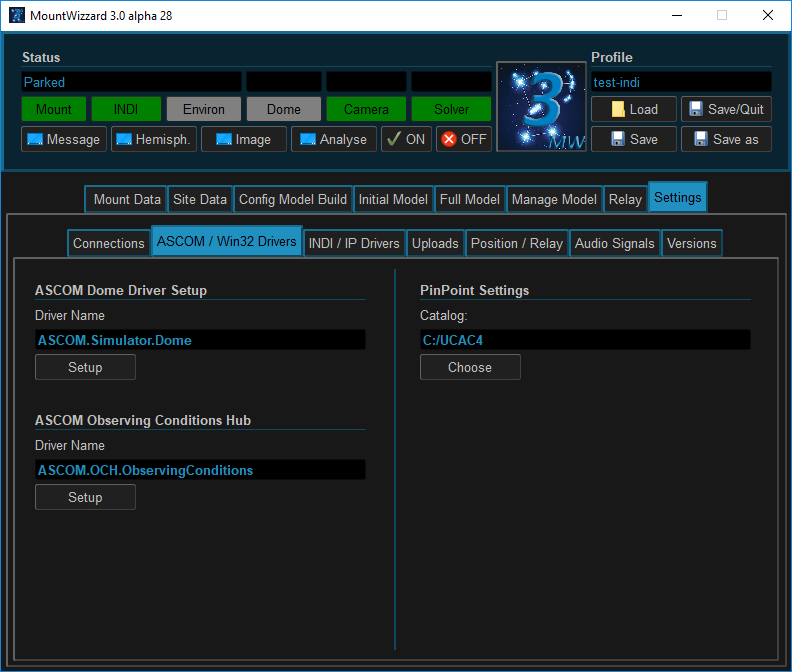
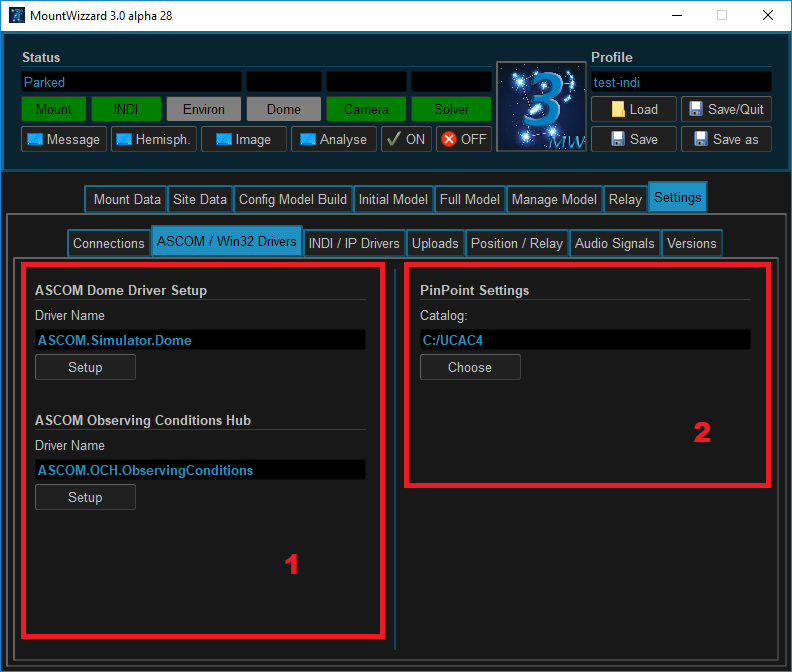
update documentation for ascom win32 and upload

diff --git a/docu/settings_ascom_win32.md b/docu/settings_ascom_win32.md
@@ -1,0 +1,44 @@
+## Settings for ASCOM / Mount Drivers environment drivers
+
+<img src="pics/settings_ascomwin32.png"/>
+
+### Area 1: PinPoint
+If yo have full (!) version of PinPoint installed, you could use this directly for plate solving.
+Only point you have to define is the location of the catalog. Please use the standard names of the
+directories that MountWizzard3 could determine the type for PinPoint. Supported catalogs are:
+- UCAC4
+- GSC
+- UCAC3
+- USNO
+
+### Area 2: Setup Ascom Devices
+Beside camera and telescope you could have several devices connected. MountWizzard supports some types:
+
+#### ASCOM Domes (Azimuth only)
+The support of Dome is limited to slew a connected Dome to the right azimuth before moving on doing the
+next image. It's not a fully supported Dome remote.
+
+#### ASCOM Observing Conditions Hub
+- Observing Conditions(ObsCond) at the mount: Stickstation or MBox
+- Observing Conditions on Open Weather
+- Observing conditions for SQR metering: Unihedron SQR Device
+
+
+The ObsCond is the important device, where MountWizzard takes the information for update the refraction
+parameters. Normally you would use a Stickstation or a MBox solution. But basically all devices, which
+deliver that data (temperature, humidity, pressure, dew point) could be used. If you don't own one of
+them, you still can use Open Weather.
+
+The Open Weather service gives you more information. You have to obtain an API key. Please check their
+website http://openweathermap.org/api for further informations.
+
+Last, but not least, you can have a sky quality meter from Unihedron attached. You have to use a USB
+type and you have to connect it via ASCOM. There is a driver written by animaal
+(SGPro Forum under http://forum.mainsequencesoftware.com/t/environment-device-values/5051/16)
+you find the driver on http://www.dizzy.eu/downloads.html. It does a great job!
+
+[Back to settings](settings.md)
+
+[Back to first steps](firststeps.md)
+
+[Back to Home](home.md)

diff --git a/docu/settings_uploads.md b/docu/settings_uploads.md
@@ -1,11 +1,8 @@
 ## Setting / config of UTC Data / MPC / TLE
 
-<img src="pics/tab_settings_utcdata.png"/>
+<img src="pics/settings_uploads.png"/>
 
-### Area 1
-Shows the status of the UTC timing parameters especially of the UTC-1 values and their expiration date.
-
-### Area 2: Webservice for space data
+### Area 1: Webservice for space data
 
 Most of the data will be downloaded from the minor planet center:
 <pre>
@@ -30,7 +27,7 @@ are stored in your
 <pre>/config</pre>
 directory inside your working directory.
 
-### Area 3: Mount upload.
+### Area 2: Mount upload.
 
 Actually there is no interface or API offered from 10micron to upload data by an external program. Therefore MountWizzard tries to
 automate the original 10mircon updater software and does the job for you. I hope this hold for longer times as changes in workflow or
@@ -47,7 +44,7 @@ asteroids: If you check Filter MPC Files, MountWizzard takes the downloaded file
 filter expression is found. You can have multiple expressions, but you have to comma seperate them. It looks just for the string in the
 file, not the comet or asteroid name !
 
-[Back to settings](settings.md)
+[Back to settings](configuration.md)
 
 [Back to first steps](firststeps.md)
 

diff --git a/docu/configuration.md b/docu/configuration.md
@@ -1,9 +1,19 @@
-## Configuring MountWizzard
+## Setting up and configuring MountWizzard
 
-First the overview of the areas of work:
+<img src="pics/settings_connection_edit.png">
 
-<img src="pics/configuration.png">
+### Area 1
 
+Area 1 shows a second level ob TAB for doing all configuration settings. These are in the following:
 
+- [Imaging Connection TAB](settings_connection.md)
+- [ASCOM / Win32 Drivers TAB](settings_ascom_win32.md)
+- [INDI / IP Drivers TAB](settings_indi_ip.md)
+- [Uploads TAB](settings_uploads.md)
+- [Position / Relay TAB](settings_position_relay.md)
+- [Audio TAB](settings_audio.md)
+- [Versions TAB](settings_versions.md)
+
+[Back to configuration](configuration.md)
 
 [Back Home](home.md)
